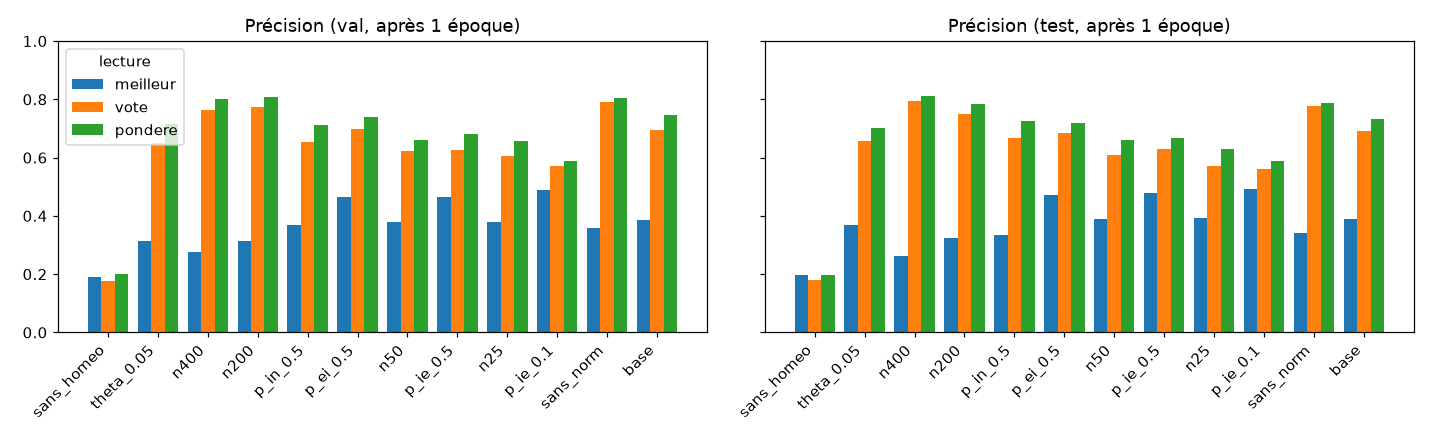
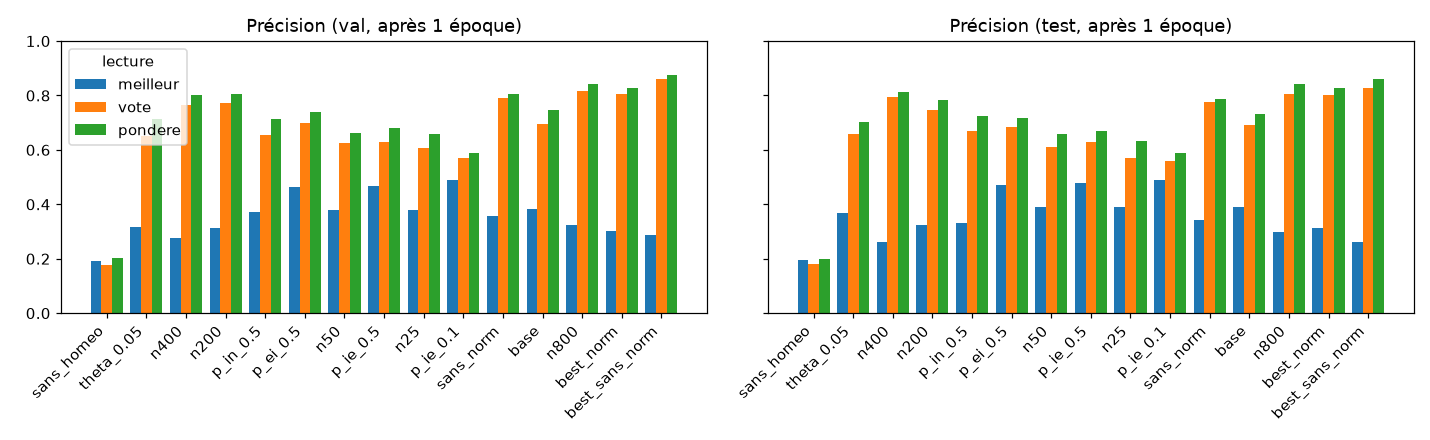
fin entrainement

diff --git a/probleme2/readme.md b/probleme2/readme.md
@@ -12,6 +12,7 @@ on trace autant de figures qu'on veut sans réentraîner.
 | `diehl_cook.py` | II | Réseau de Diehl & Cook : entrée Poisson, couches E/I, STDP éq. (3), homéostasie, normalisation, lectures |
 | `experiences.py` | III | Grille d'expériences lancée en parallèle, écrit `resultats/resultats.csv` |
 | `figures.py` | III-IV | Précisions, champs récepteurs, évolution, courbes d'accord, cartes d'activation |
+| `duree.py` | III | Chronomètre une configuration seule sur 300 images, écrit `resultats/durees.csv` |
 
 ## Installation
 
@@ -26,8 +27,9 @@ surcoût Python de chaque pas de temps, pas par les calculs eux-mêmes.
 
 ```bash
 python partie1_stdp.py     # ~3 min  -> resultats/partie1/
-python experiences.py      # ~7 h sur 12 cœurs (une expérience par processus, limité par base) -> resultats/
+python experiences.py      # ~7 h sur 12 cœurs (une expérience par processus) -> resultats/
 python figures.py          # -> resultats/figures/
+python duree.py best_sans_norm   # ~3 min, machine au repos -> resultats/durees.csv
 ```
 
 Toutes les graines aléatoires sont fixées (`seed=0`). Une seule expérience se relance avec
@@ -56,7 +58,8 @@ Toutes les graines aléatoires sont fixées (`seed=0`). Une seule expérience se
   `meilleur` (code à trous), `vote` (Diehl & Cook) et `pondere`.
 - **Données** : 7000 images tirées au hasard parmi les 70 000, découpées de façon stratifiée en
   5000 entraînement / 1000 validation / 1000 test. L'étiquetage des neurones utilise
-  1000 images d'entraînement présentées sans plasticité.
+  1000 images d'entraînement présentées sans plasticité (5000 pour les expériences `best_*` et
+  `n800`).
 
 ## Paramètres du réseau (Partie II)
 
@@ -119,15 +122,43 @@ L'homéostasie ne peut donc rien faire, et il faudrait plus d'entrées ou un gma
 - **Normalisation** : sans elle, la précision est *meilleure* après 1 époque. La règle (3) se
   régule déjà en partie toute seule : le terme −x_tar déprime les entrées inactives. La somme des
   poids chute de 118 à 26, puis remonte vers 58. Chaque neurone apprend alors un exemplaire très
-  net (`champs_sans_norm.png`) plutôt qu'une moyenne floue. La stabilité sur plusieurs époques n'a
-  pas été vérifiée.
+  net (`champs_sans_norm.png`) plutôt qu'une moyenne floue. Ça reste stable sur 3 époques à
+  400 neurones (voir ci-dessous).
 - **Lectures** : `pondere` > `vote` partout, et `meilleur` (celle du code à trous) est la pire.
-  `meilleur` attribue chaque image à la classe d'un seul neurone, le plus actif. Elle profite d'une
-  inhibition faible (plusieurs neurones répondent) et souffre quand il y a beaucoup de neurones
-  (chaque neurone, vu sur peu d'images, a une étiquette bruitée).
-- **Durées** : ce sont des temps réels sous charge variable (12 processus en parallèle, priorité
-  abaissée une partie du temps). Elles ne sont pas comparables entre expériences. La colonne
-  `pause_s` indique la suspension manuelle de 3 h déjà retirée des durées.
+  `meilleur` ne garde qu'un neurone représentant par classe (celui qui y répond le plus) et jette
+  tous les autres. Avec le winner-take-all, seuls 1 à 3 neurones déchargent par image, et ce n'est
+  souvent pas le représentant. Elle profite donc d'une inhibition faible (plus de neurones actifs)
+  et souffre quand il y a beaucoup de neurones.
+- **Durées** : celles de `resultats.csv` sont des temps réels sous charge variable (jusqu'à
+  12 processus en parallèle, priorité abaissée une partie du temps), donc non comparables entre
+  expériences. La colonne `pause_s` indique la suspension manuelle de 3 h déjà retirée. Les durées
+  fiables sont mesurées seules avec `duree.py` (voir ci-dessous).
+
+### Meilleure configuration (`best_*`, `n800`)
+
+En combinant les leviers favorables trouvés ci-dessus (plus de neurones, plusieurs époques,
+étiquetage sur 5000 images), avec et sans normalisation. Le choix se fait sur la **validation**,
+le test ne sert qu'à mesurer la généralisation (lecture pondere).
+
+| Expérience | Neurones | Époque | Validation | Test |
+|---|---|---|---|---|
+| n800 | 800 | 1 | 84.4 % | 84.4 % |
+| best_norm | 400 | 1 / 2 / 3 | 82.8 / 83.1 / 82.7 % | 82.8 / 83.6 / 83.6 % |
+| **best_sans_norm** | 400 | **1** / 2 / 3 | **87.7** / 87.3 / 86.5 % | **85.9** / 87.4 / 85.4 % |
+
+- **Configuration retenue** : 400 neurones sans normalisation, 1 époque. Elle donne **87.7 %** en
+  validation et **85.9 % en test**, contre 73.2 % pour `base`.
+- **Normalisation** : sans normalisation, on gagne environ 5 points à 400 neurones aussi, et c'est
+  stable sur 3 époques (pas d'emballement des poids).
+- **Époques** : à 400 neurones, les époques supplémentaires n'aident plus en validation.
+- **Étiquetage** : étiqueter les neurones avec 5000 images au lieu de 1000 supprime l'écart
+  train/validation de `n400` (85 % contre 76 % en vote). Cet écart venait d'étiquettes bruitées,
+  pas d'un surapprentissage.
+
+**Durée mesurée seule** (`duree.py`, 300 images, `resultats/durees.csv`) : 0.28 s par image en
+apprentissage comme en évaluation, à 400 neurones. La configuration retenue (5000 images
+d'apprentissage et 7000 d'évaluation) prend donc environ **56 min**, et 2 h 50 sur 3 époques.
+C'est environ 2.3 fois moins que le temps observé en parallèle.
 
 ### Partie IV (`resultats/figures/`)
 
